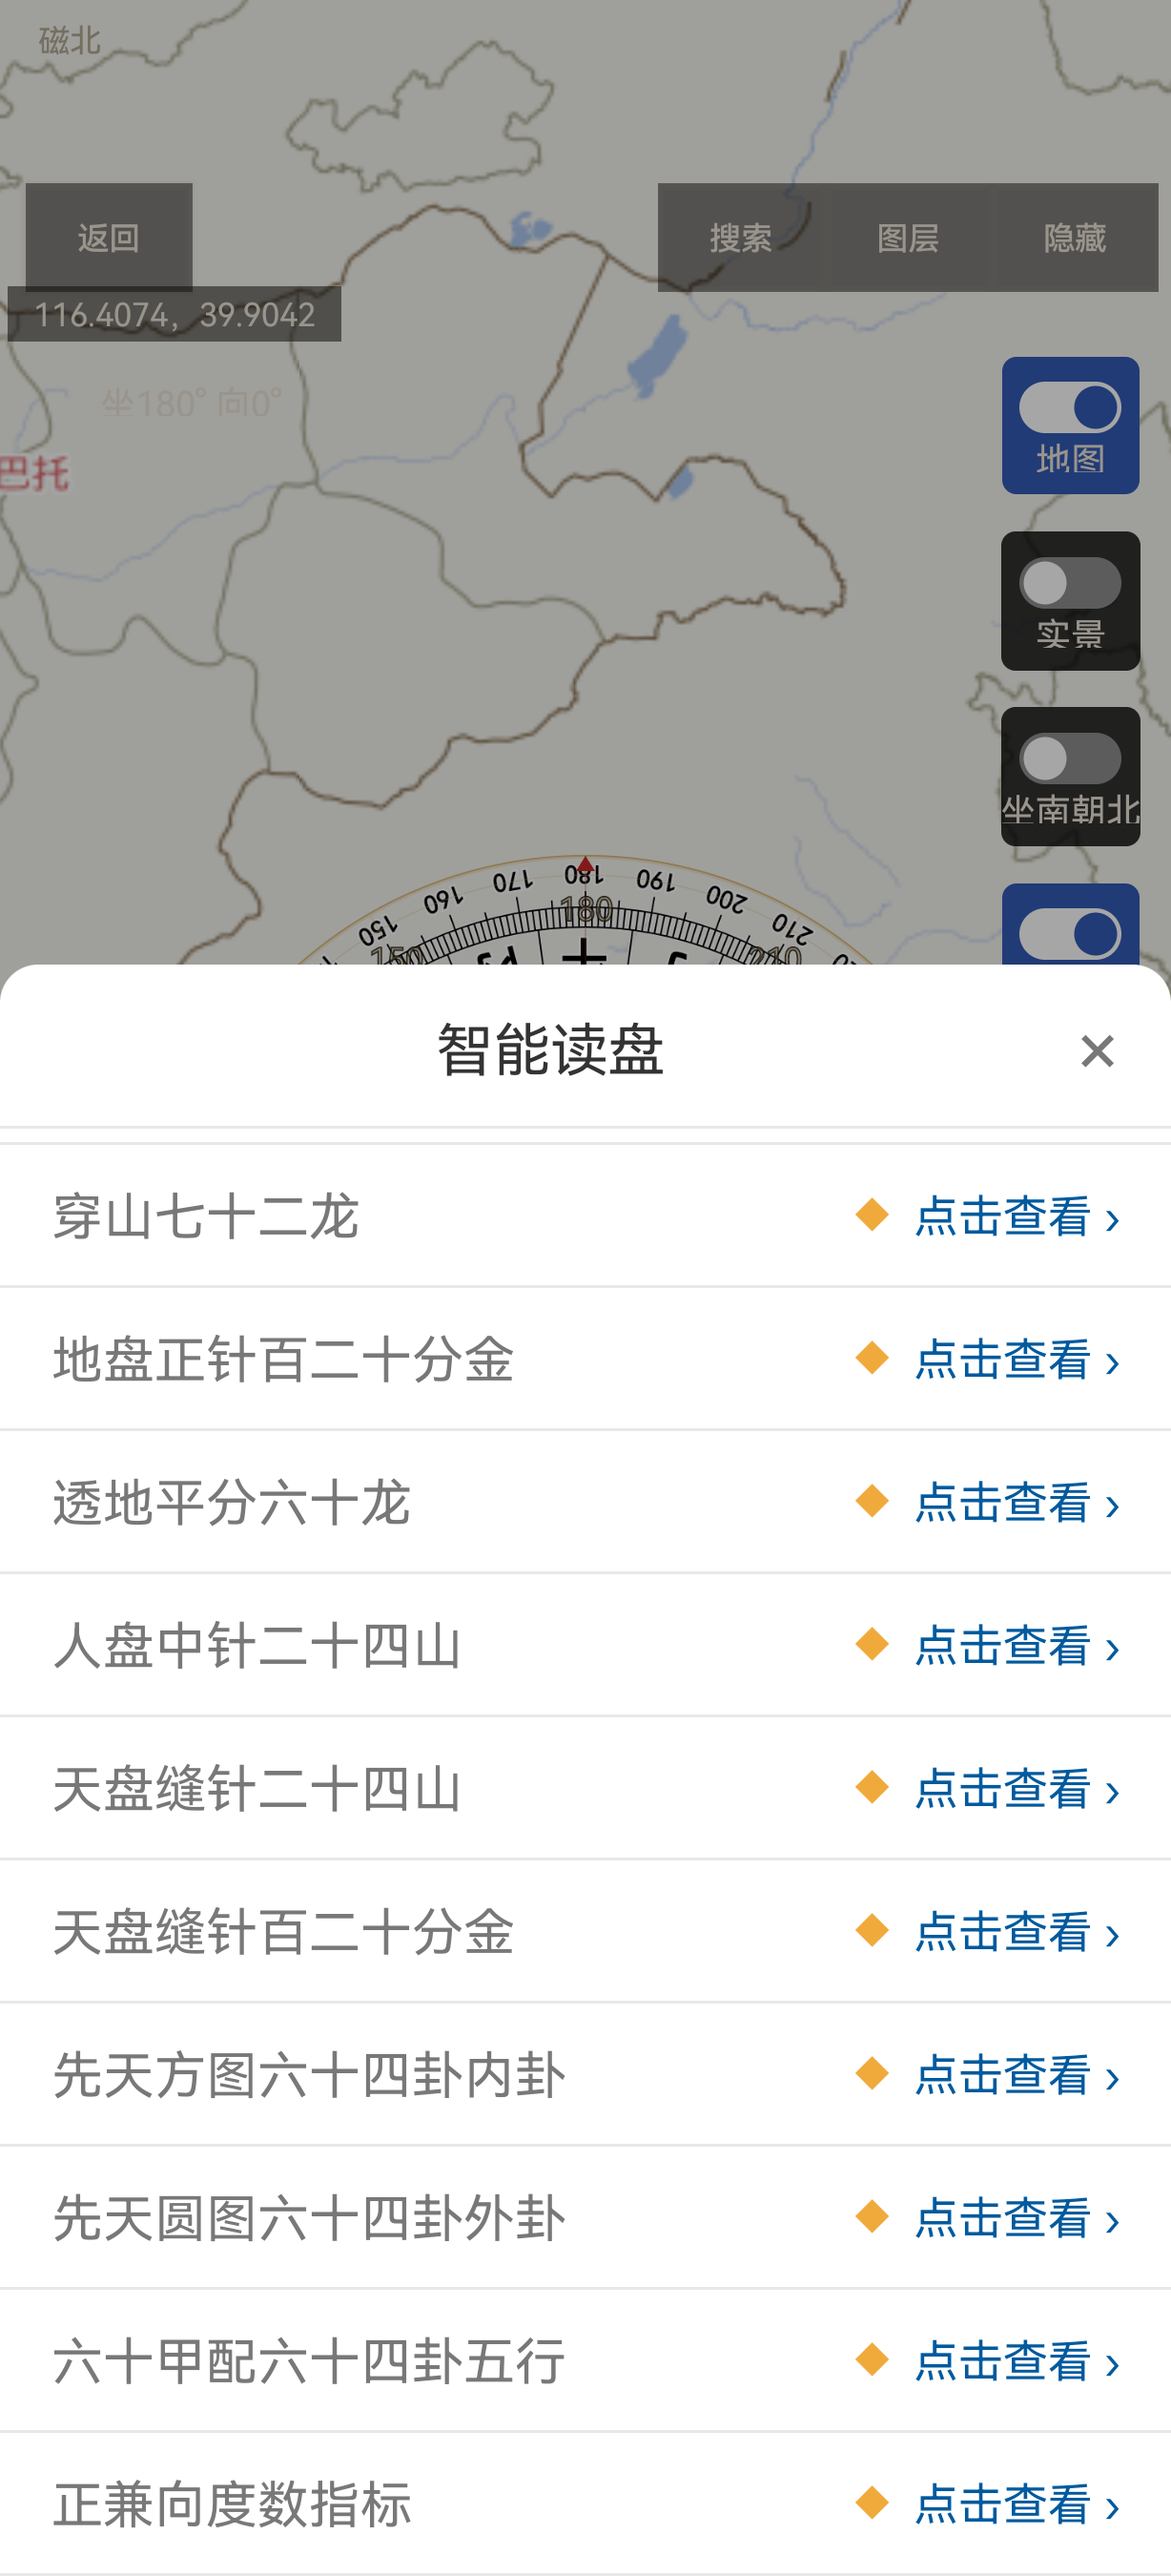
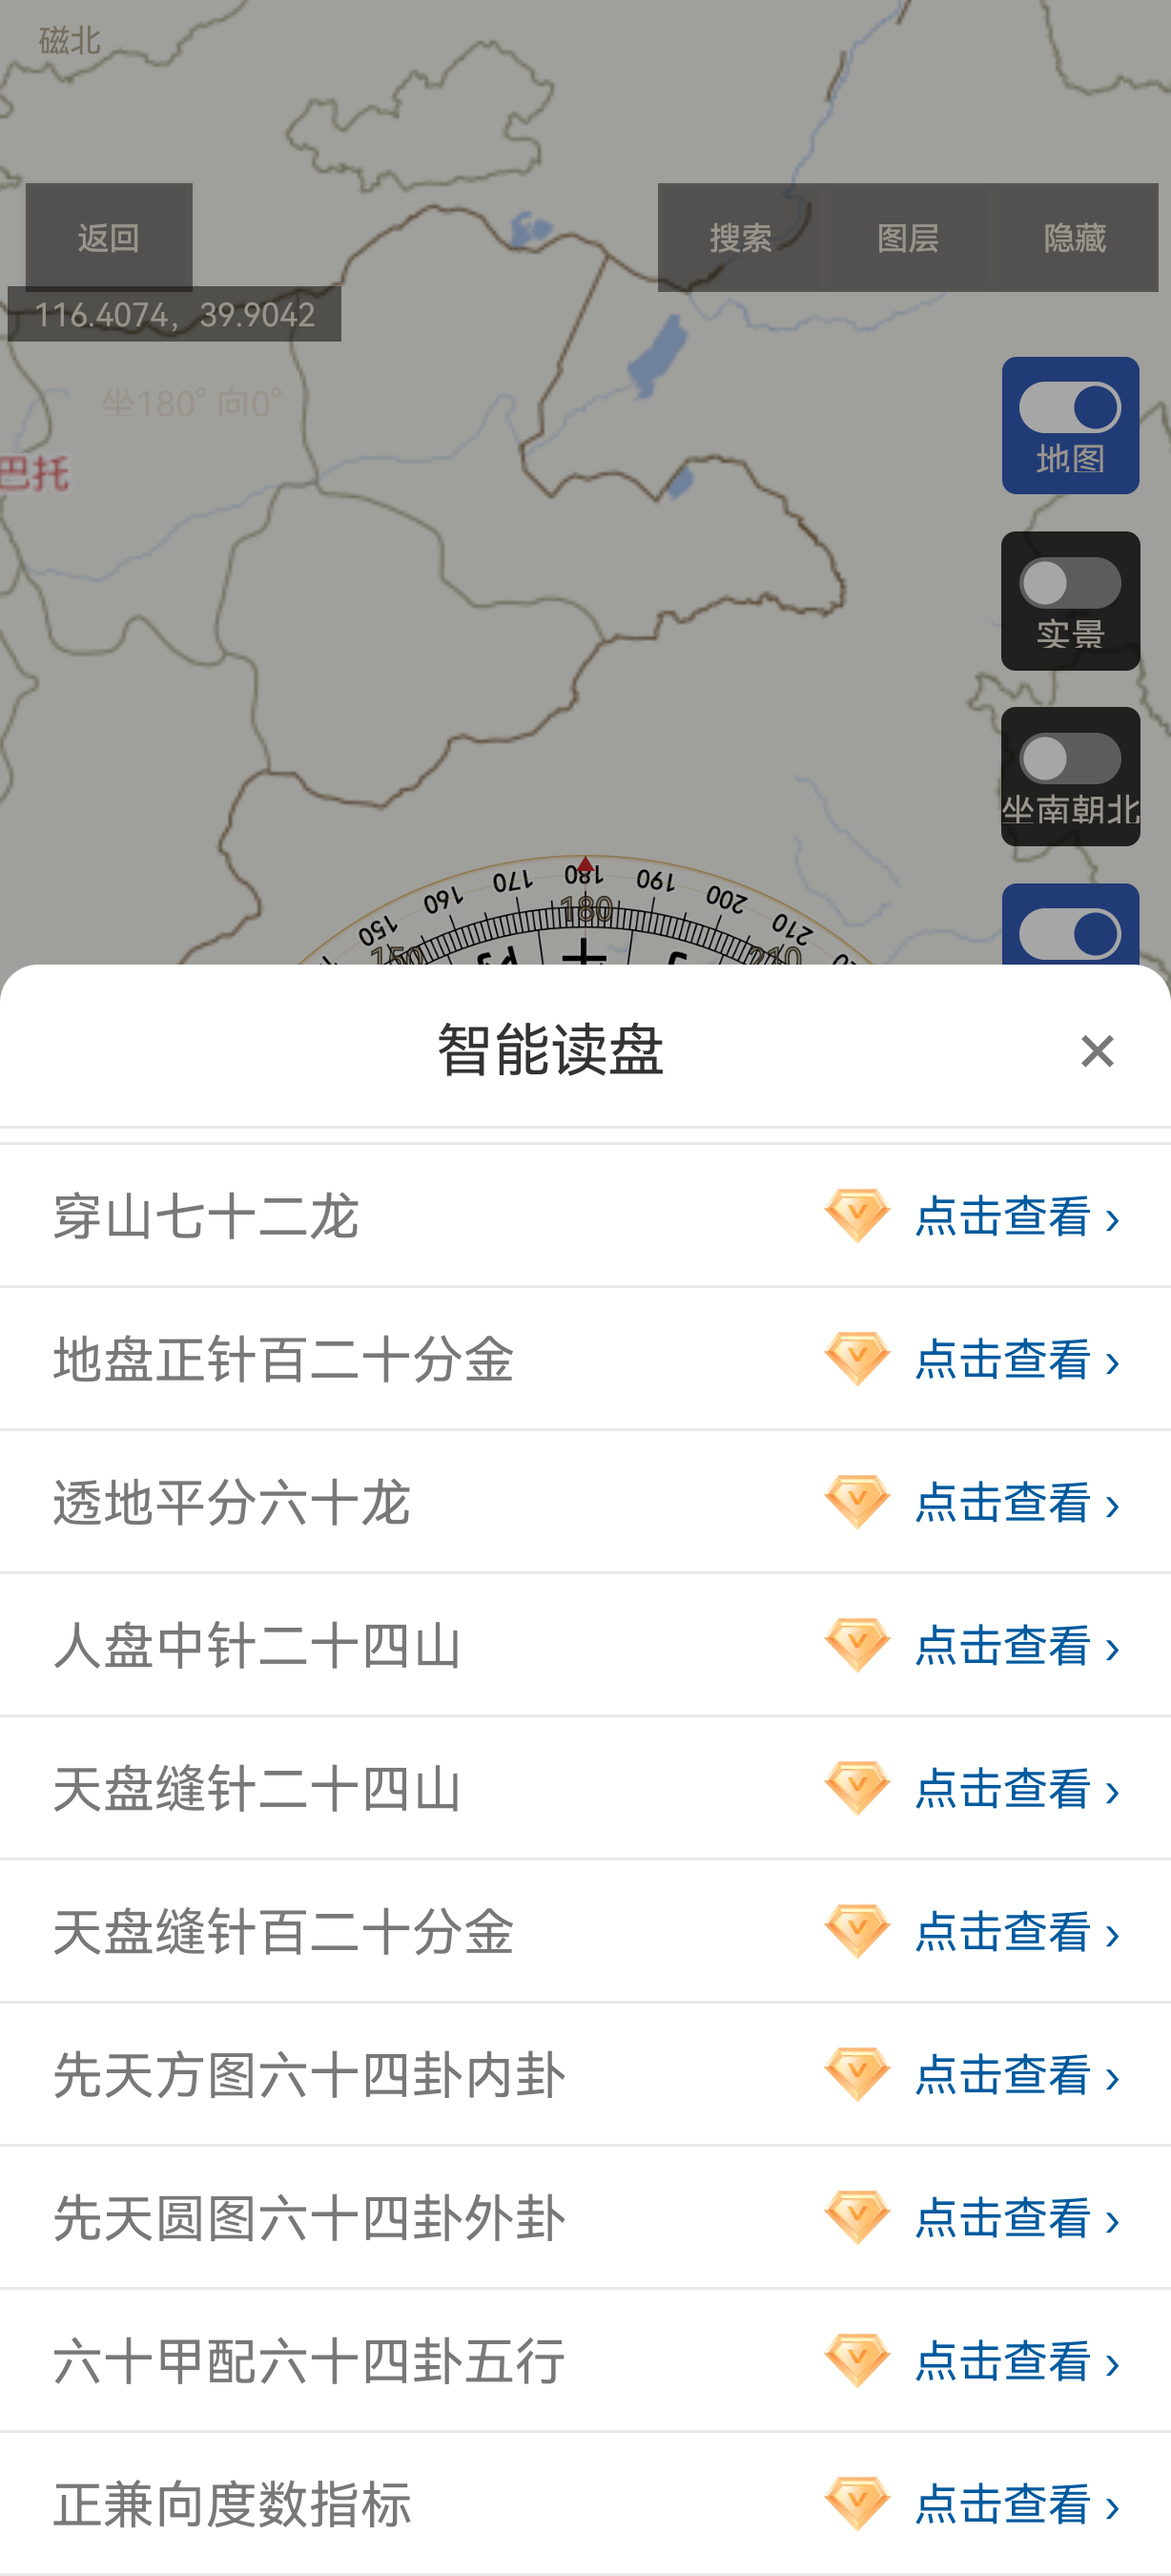
fix(client): R2-001 顶部白带（Theme.Luopan.Splash + LAYOUT_IN_SCREEN，LOGO_TOP 435）+ 新基线证据（sheet 1011/徽标 77x65）

diff --git a/app/android/app/src/main/java/com/luopan/fengshui/SplashActivity.java b/app/android/app/src/main/java/com/luopan/fengshui/SplashActivity.java
@@ -31,7 +31,7 @@ public class SplashActivity extends Activity {
 
     /** logo 尺寸/位置：按原版 `_launch-probe.png` 像素对齐（标题带 y731–779、x402–824，宽 422）。 */
     private static final int LOGO_WIDTH = 660;
-    private static final int LOGO_TOP = 313;
+    private static final int LOGO_TOP = 435;
 
     private boolean moved;
 
@@ -44,7 +44,8 @@ public class SplashActivity extends Activity {
         getWindow().setBackgroundDrawable(new android.graphics.drawable.ColorDrawable(Color.WHITE));
         getWindow().addFlags(WindowManager.LayoutParams.FLAG_DRAWS_SYSTEM_BAR_BACKGROUNDS
                 | WindowManager.LayoutParams.FLAG_LAYOUT_NO_LIMITS
-                | WindowManager.LayoutParams.FLAG_FULLSCREEN);
+                | WindowManager.LayoutParams.FLAG_FULLSCREEN
+                | WindowManager.LayoutParams.FLAG_LAYOUT_IN_SCREEN);
         getWindow().setStatusBarColor(Color.WHITE);
         getWindow().setNavigationBarColor(Color.WHITE);
 
@@ -97,6 +98,8 @@ public class SplashActivity extends Activity {
         goMain();
     }
 }
+
+
 
 
 

diff --git a/docs/fidelity/stage4/README.md b/docs/fidelity/stage4/README.md
@@ -4,8 +4,8 @@
 
 | 项 | 值 |
 | --- | --- |
-| 分支 | `feature/client-stage4-p2`（基线 `5d2db1a`） |
[1 lines of base64/hex data omitted]
+| 分支 | `feature/client-r2013-rework`（基线 `92d5f4b`；P2 主体已先合入 `da4b606`） |
[1 lines of base64/hex data omitted]
 | 证据日志 | `verify-stage4.txt`（每步前台校验 `mResumedActivity`，dump 走 `/data/local/tmp`） |
 
 ## R2-001 启动页
@@ -17,10 +17,10 @@
 
 | 元素 | 原版 `orig/_launch-probe.png` | 本实现 `r2-001-splash.png` |
 | --- | --- | --- |
-| 图标暗部 | y 517–597，x 510–716 | y 515–597，x 510–718 |
-| 标题带 | y 731–779，x 402–824（宽 422） | y 731–780，x 402–824（宽 422） |
+| 图标暗部 | y 517–597，x 510–716 | y 517–597，x 510–718 |
+| 标题带 | y 731–779，x 402–824（宽 422） | y 731–779，x 402–824（宽 422） |
 
-偏差 ≤2 px；状态栏已隐藏（`SYSTEM_UI_FLAG_FULLSCREEN|HIDE_NAVIGATION|IMMERSIVE_STICKY`），顶边无黑带。
+偏差 ≤2 px（x 右缘 +2 px 属图标抗锯齿边缘）。**顶部 `y0..121` = `(255,255,255)`**（原版同值）：上一版是主题黑底 `(0,0,0)`，改法为 `Theme.Luopan.Splash`（Light.Fullscreen + 白 window/status/nav + cutout shortEdges）+ `FLAG_LAYOUT_IN_SCREEN`，窗口真正铺到 y=0，LOGO_TOP 由 313 调到 435 保持内容带位置。
 
 ## R2-008 超清页文案
 
@@ -43,5 +43,7 @@
 
 - **C（顶边/滚动）**：sheet 顶边 `[0,1011]`，与原版像素扫描值 **1011 一致（偏差 0，上一版 380 差 −631）**；首屏可见 10 行（第 11 行被裁），滚动后到第 14 行 `正兼向度数指标`，14 行齐。
 - **B（前 3 行数值）**：`先天八卦_卦位 → 向：乾　坐：坤`、`后天八卦_卦位 → 向：离　坐：坎`、`先天八卦洛书数 → 向：乾 1　坐：坤 8`（值随 heading）；第 4–14 行保持「点击查看 ›」。
-- **A（◆ 图形）未完成**：当前仍是金色字符 `◆`；全量扫描 APK 解码资源 PNG/WebP 无 74×54（`total 0`），`assets/INDEX.md` 无对应条目 → 等逆向定位 drawable，定位不到记 DI，**不自画**。
+- **A（VIP 徽标）已完成**：`◆` 字符已换成原版素材 `ic_compass_vip.webp`（sha256 `5e2811b6…`，132×112，取自 APK `res/Dn.webp`），节点 `lc_read_vip` 渲染 `77×65`（FIT_CENTER，等比 76.6×65），位置在圈层名之后、`点击查看 ›` 之前、垂直居中；dump 中已无「◆」文本节点。
 - 证据：`r2-013-sheet-top.png`、`r2-013-sheet-scrolled.png`、`verify-r2-013.txt`。
+
+
